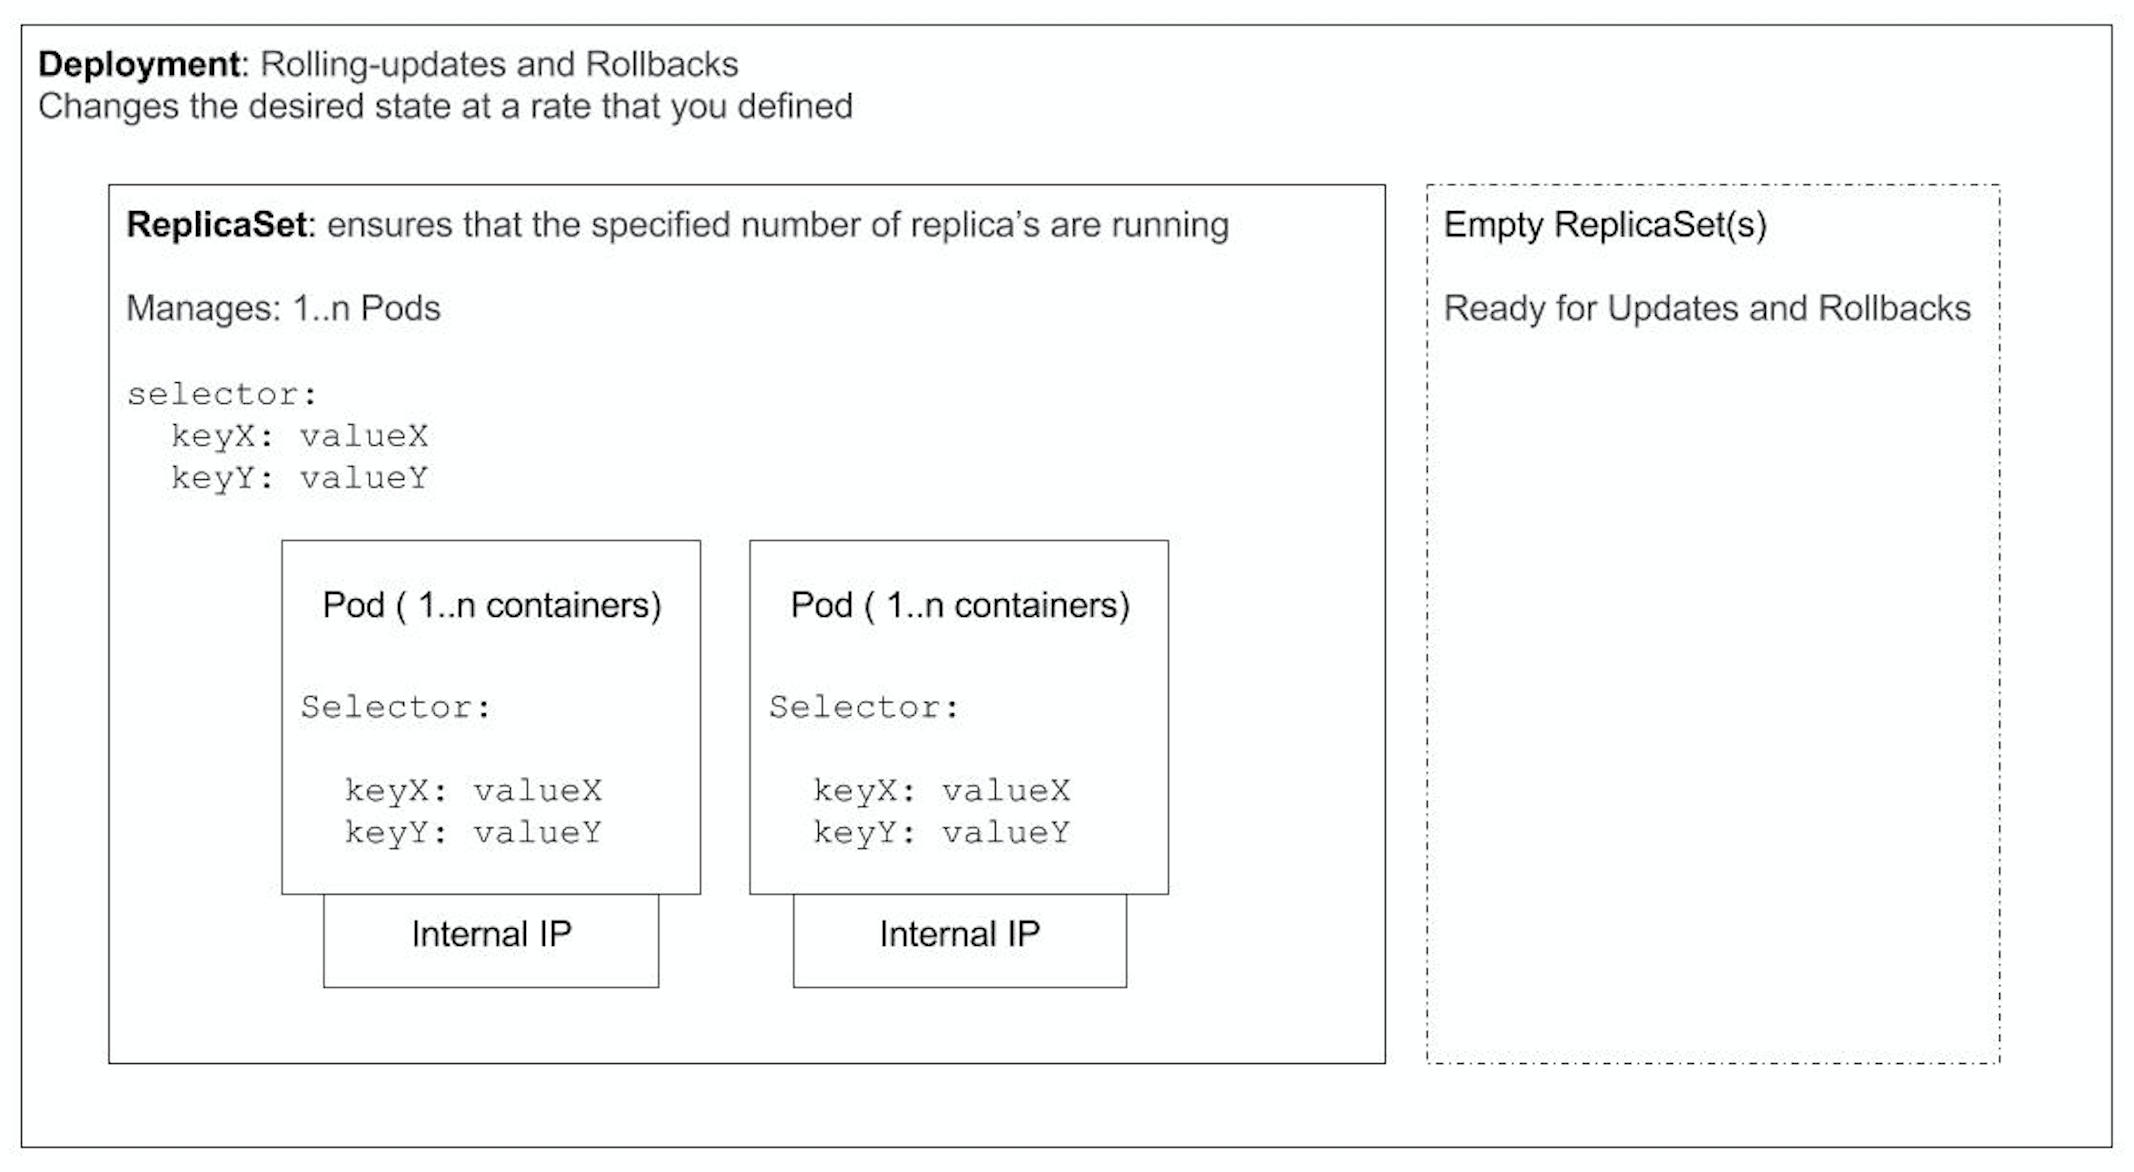
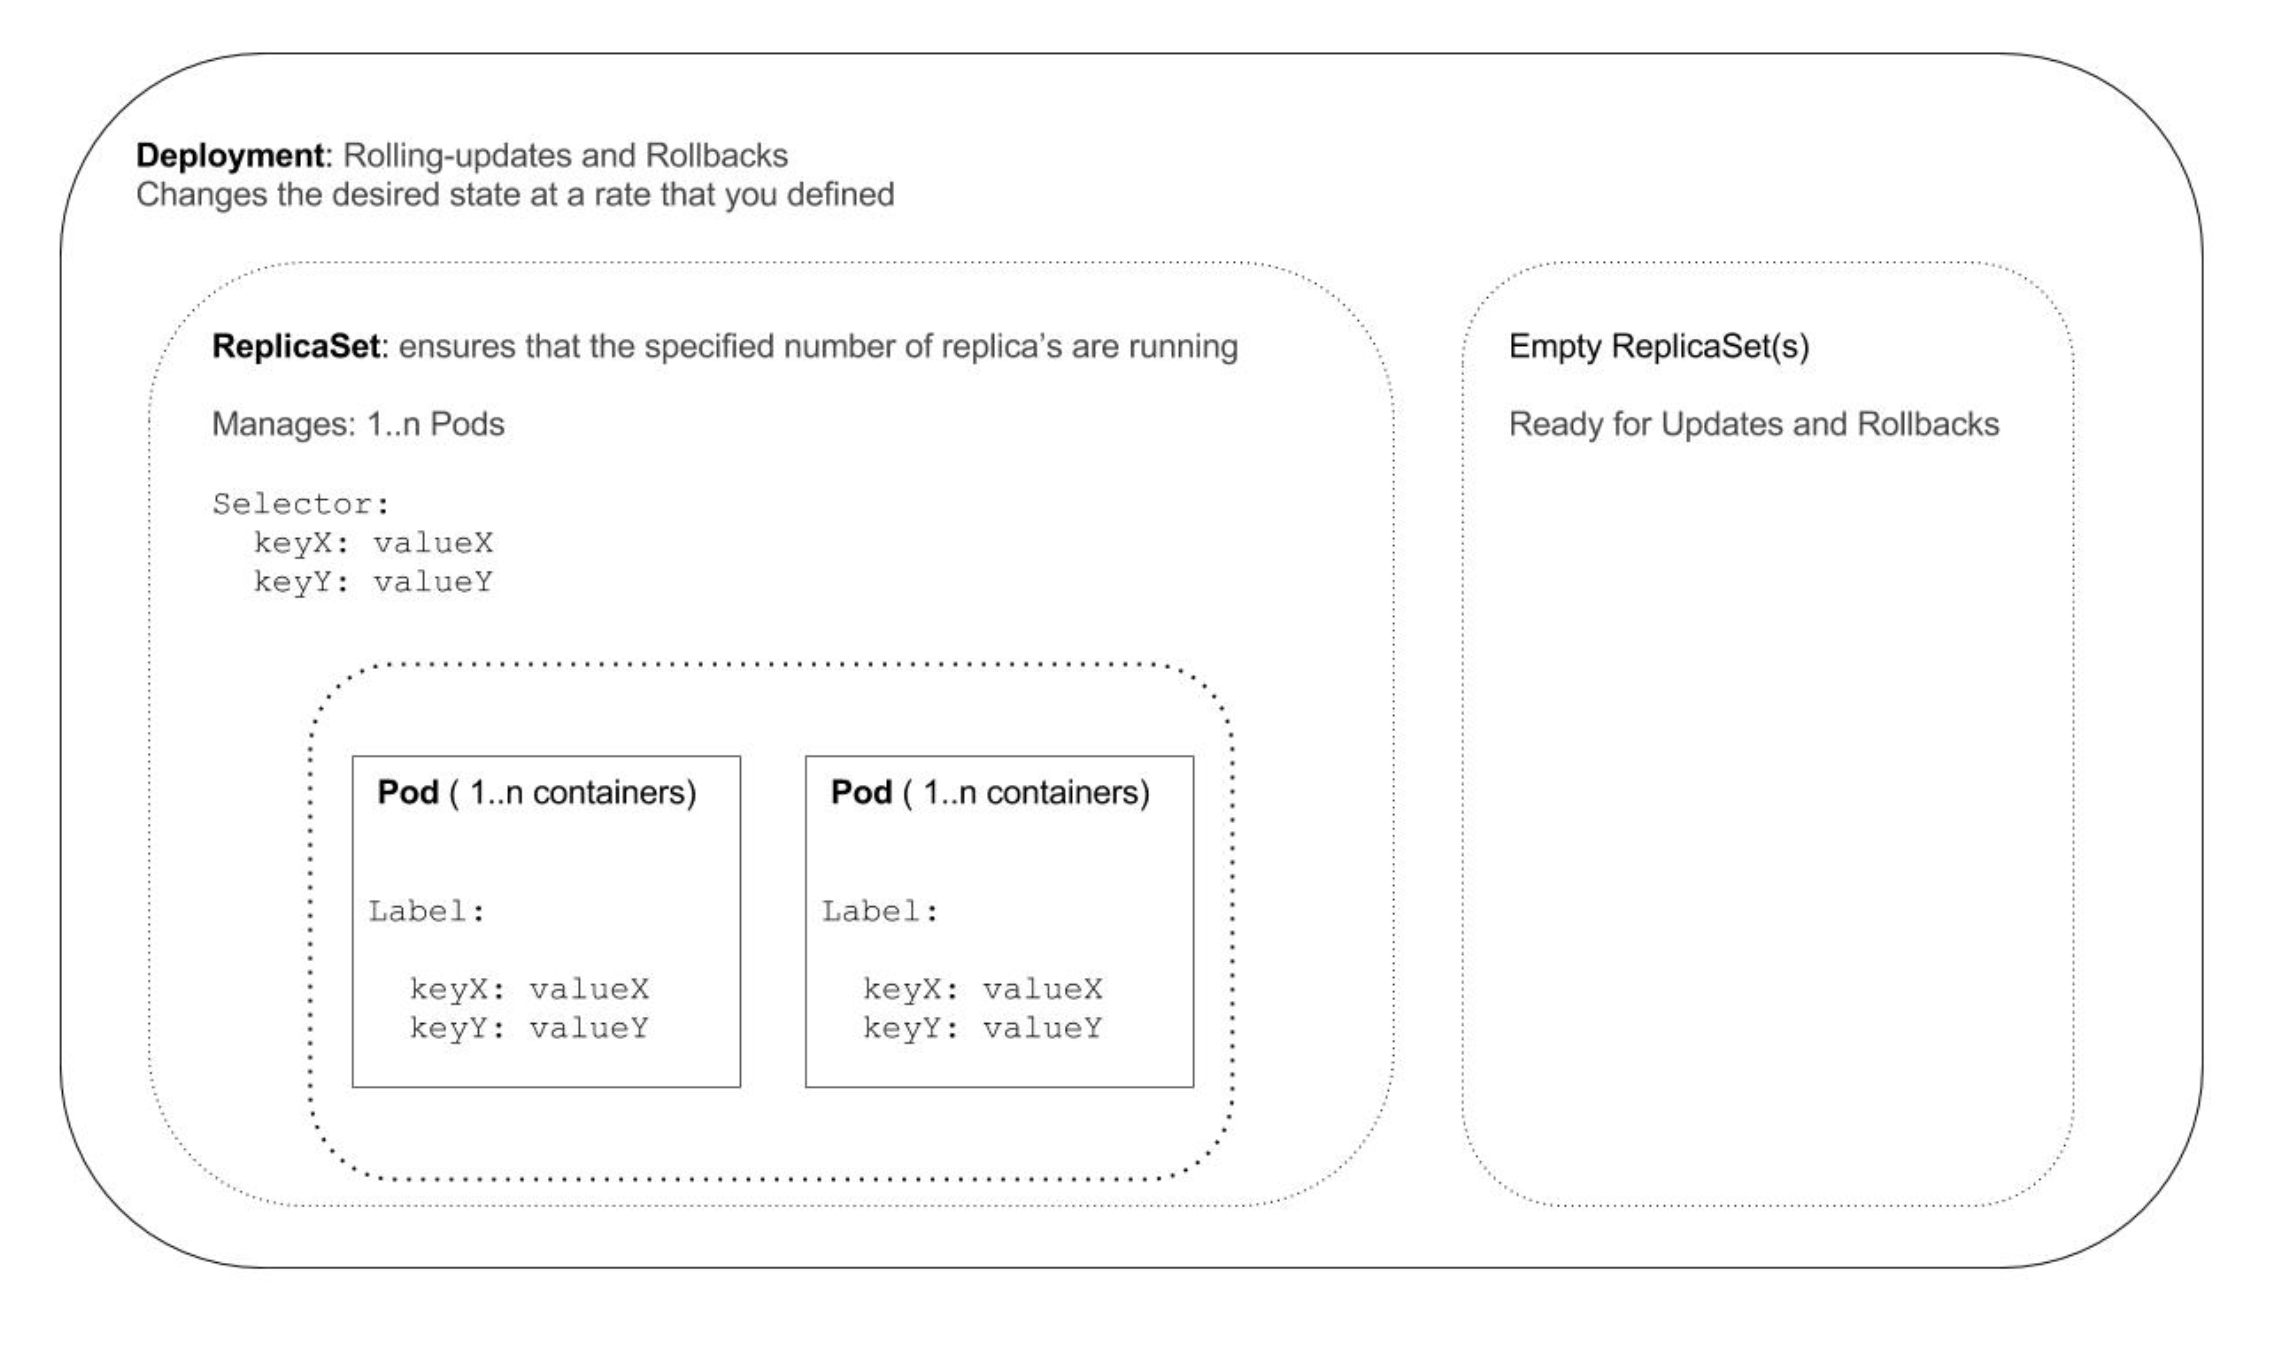
Update images

diff --git a/Part-3-RC-and-RS.md b/Part-3-RC-and-RS.md
@@ -7,7 +7,7 @@ As you have seen in the previous section, a `Pod` is pretty useless on its own. 
 
 `ReplicaSets` and `ReplicationControllers` are such a wrapper around the Pod. Its purpose is to ensure that a specified number of pod replicas are running. (Hence enforcing the desired state)
 
-<img src="https://github.com/actfong/k8s-workshop/blob/master/k8s-rs.png?raw=true" width="700" height="500"/>
+<img src="https://github.com/actfong/k8s-workshop/blob/master/k8s-replica-set.png?raw=true" width="700" height="500"/>
 
 
 ### ReplicationController and ReplicaSet ###

diff --git a/services.md b/services.md
@@ -8,6 +8,8 @@ Actually, there is a reason for that: Pods are ephemeral in nature. So you shoul
 
 A `Service` object has it's own IP, DNS and Port and they **never** change. It enables you to access pods through `selectors` and `labels`.
 
+<img src="https://github.com/actfong/k8s-workshop/blob/master/k8s-service.png?raw=true" width="700" height="500"/>
+
 ### Manifest ###
 
 Attributes
